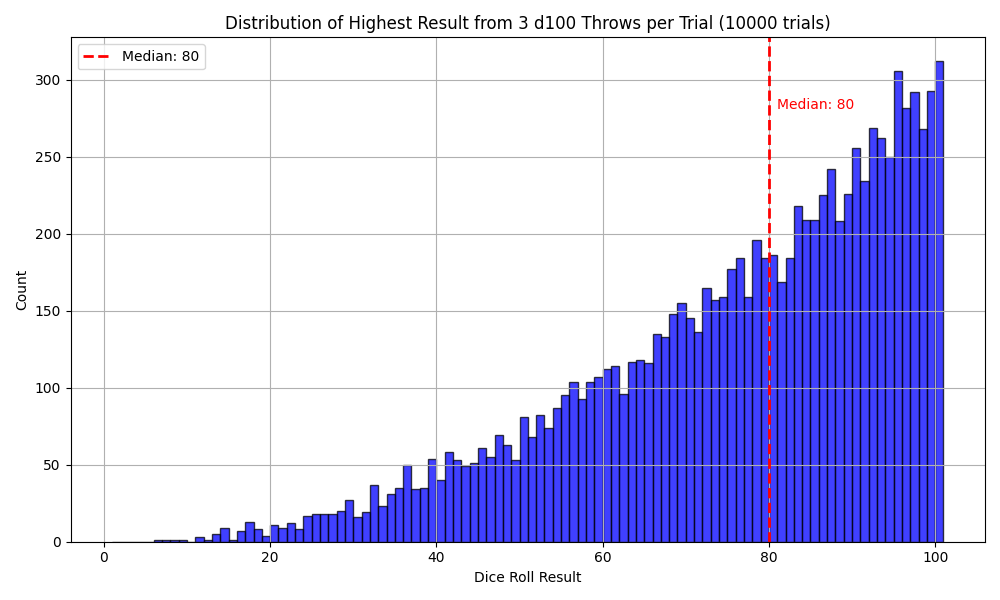
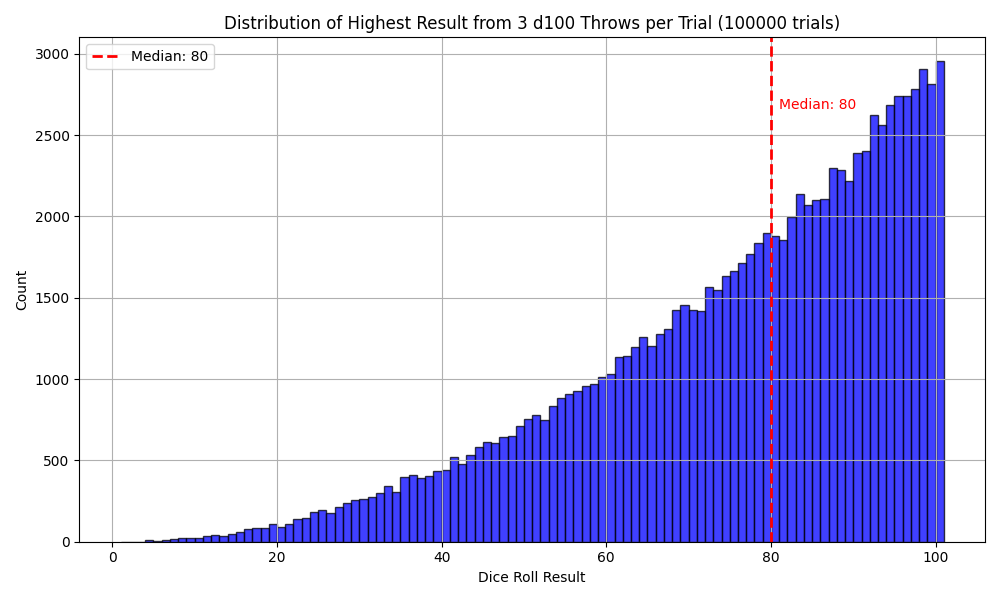
python script: Előny-Hátrány modellek ábra kalkulátora V

diff --git a/code/elony_hatrany_eloszlasok.py b/code/elony_hatrany_eloszlasok.py
@@ -41,7 +41,7 @@ def main():
 
     np.random.seed(42)  # for reproducibility
 
-    num_trials = 10000  # fixed number of trials
+    num_trials = 100000  # fixed number of trials
 
     results = [simulate_one_trial(num_throws_per_trial, mode) for _ in range(num_trials)]
     median_result = np.median(results)
